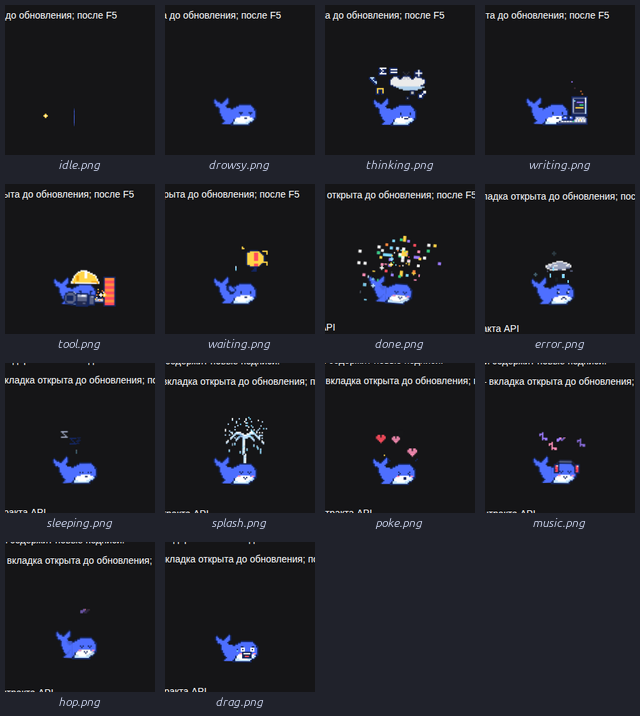
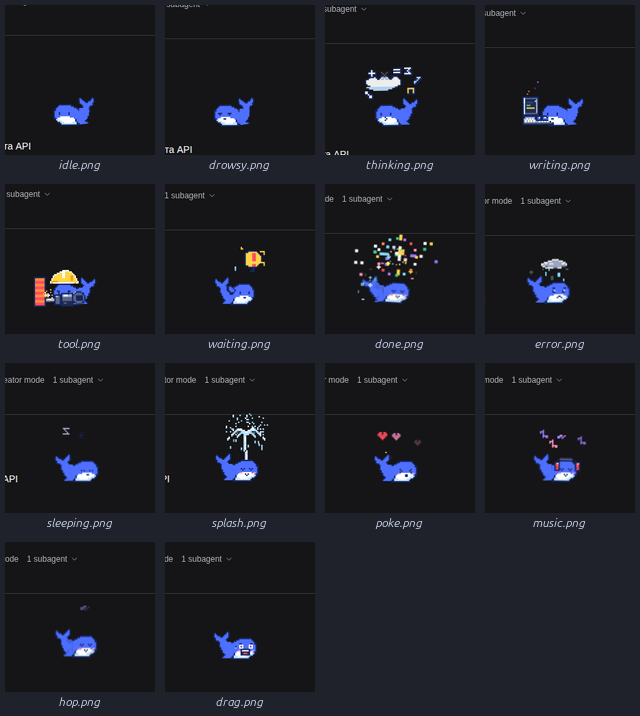
thinking: single-bracket smile, rising thought dots removed

diff --git a/client.js b/client.js
@@ -122,8 +122,6 @@ const ART = {
   83%, 100% { opacity: 0; }
 }
 .dsh-whale.is-thinking #dw-cloud { animation: dw-cloud-float 3.2s ease-in-out infinite; }
-.dsh-whale.is-thinking #dw-dot1 { animation: dw-float 2.4s ease-in-out infinite; }
-.dsh-whale.is-thinking #dw-dot2 { animation: dw-float 2.4s ease-in-out 0.35s infinite; }
 .dsh-whale.is-thinking #dw-formula1 { animation: dw-formula 2.8s ease-in-out 0.00s infinite; }
 .dsh-whale.is-thinking #dw-formula2 { animation: dw-formula 2.8s ease-in-out 0.38s infinite; }
 .dsh-whale.is-thinking #dw-formula3 { animation: dw-formula 2.8s ease-in-out 0.76s infinite; }
@@ -582,7 +580,7 @@ const ART = {
     <g id="dw-face-drowsy" class="dw-alt dw-on-drowsy"><rect x="22" y="68" width="6" height="2" fill="#142660"/><rect x="36" y="68" width="6" height="2" fill="#142660"/><rect x="24" y="70" width="2" height="2" fill="#142660"/><rect x="38" y="70" width="2" height="2" fill="#142660"/></g>
     <g id="dw-face-drag" class="dw-alt dw-on-drag"><rect x="22" y="64" width="4" height="2" fill="#142660"/><rect x="38" y="64" width="4" height="2" fill="#142660"/><rect x="22" y="66" width="6" height="6" fill="#FFFFFF"/><rect x="24" y="68" width="2" height="2" fill="#142660"/><rect x="36" y="66" width="6" height="6" fill="#FFFFFF"/><rect x="38" y="68" width="2" height="2" fill="#142660"/><rect x="46" y="68" width="2" height="4" fill="#7FDBFF"/><rect x="46" y="68" width="2" height="2" fill="#142660"/></g>
     <g id="dw-blush" class="dw-alt dw-on-done dw-on-music dw-on-splash dw-on-poke dw-on-hop dw-on-drag"><rect x="20" y="74" width="4" height="2" fill="#FF8FB8"/><rect x="40" y="74" width="4" height="2" fill="#FF8FB8"/></g>
-    <g id="dw-mouth-smile"><rect x="30" y="76" width="4" height="2" fill="#142660"/></g><g id="dw-mouth-drag-closed" class="dw-alt dw-on-drag"><rect x="28" y="76" width="10" height="2" fill="#142660"/></g><g id="dw-mouth-drag-open" class="dw-alt dw-on-drag"><rect x="26" y="72" width="14" height="10" fill="#142660"/><rect x="28" y="74" width="10" height="6" fill="#222A4E"/><rect x="28" y="74" width="10" height="2" fill="#FFFFFF"/><rect x="30" y="78" width="6" height="2" fill="#FF4D5E"/></g><g id="dw-mouth-think-closed" class="dw-alt dw-on-thinking"><rect x="28" y="76" width="6" height="2" fill="#142660"/><rect x="26" y="74" width="2" height="2" fill="#142660"/><rect x="36" y="74" width="2" height="2" fill="#142660"/></g><g id="dw-mouth-think-open" class="dw-alt dw-on-thinking"><rect x="30" y="74" width="6" height="4" fill="#142660"/><rect x="32" y="76" width="2" height="2" fill="#FF8FB8"/></g>
+    <g id="dw-mouth-smile"><rect x="30" y="76" width="4" height="2" fill="#142660"/></g><g id="dw-mouth-drag-closed" class="dw-alt dw-on-drag"><rect x="28" y="76" width="10" height="2" fill="#142660"/></g><g id="dw-mouth-drag-open" class="dw-alt dw-on-drag"><rect x="26" y="72" width="14" height="10" fill="#142660"/><rect x="28" y="74" width="10" height="6" fill="#222A4E"/><rect x="28" y="74" width="10" height="2" fill="#FFFFFF"/><rect x="30" y="78" width="6" height="2" fill="#FF4D5E"/></g><g id="dw-mouth-think-closed" class="dw-alt dw-on-thinking"><rect x="30" y="74" width="2" height="2" fill="#142660"/><rect x="32" y="76" width="2" height="2" fill="#142660"/><rect x="30" y="78" width="2" height="2" fill="#142660"/></g><g id="dw-mouth-think-open" class="dw-alt dw-on-thinking"><rect x="30" y="74" width="6" height="4" fill="#142660"/><rect x="32" y="76" width="2" height="2" fill="#FF8FB8"/></g>
     <g id="dw-mouth-happy" class="dw-alt dw-on-done dw-on-music dw-on-splash dw-on-hop"><rect x="30" y="76" width="2" height="2" fill="#142660"/><rect x="32" y="78" width="2" height="2" fill="#142660"/><rect x="34" y="76" width="2" height="2" fill="#142660"/></g>
     <g id="dw-mouth-frown" class="dw-alt dw-on-error"><rect x="28" y="78" width="2" height="2" fill="#142660"/><rect x="30" y="76" width="4" height="2" fill="#142660"/><rect x="34" y="78" width="2" height="2" fill="#142660"/></g>
     <g id="dw-mouth-o" class="dw-alt dw-on-poke"><rect x="30" y="76" width="4" height="4" fill="#142660"/></g>
@@ -601,7 +599,7 @@ const ART = {
   </g>
   <g id="dw-props">
     <g id="dw-cloud" class="dw-only dw-on-thinking"><rect x="10" y="14" width="10" height="2" fill="#142660"/><rect x="24" y="14" width="12" height="2" fill="#142660"/><rect x="40" y="14" width="10" height="2" fill="#142660"/><rect x="8" y="16" width="12" height="2" fill="#142660"/><rect x="24" y="16" width="14" height="2" fill="#142660"/><rect x="42" y="16" width="10" height="2" fill="#142660"/><rect x="4" y="18" width="50" height="2" fill="#142660"/><rect x="2" y="20" width="54" height="2" fill="#142660"/><rect x="2" y="22" width="54" height="2" fill="#142660"/><rect x="2" y="24" width="54" height="2" fill="#142660"/><rect x="4" y="26" width="52" height="2" fill="#142660"/><rect x="6" y="28" width="48" height="2" fill="#142660"/><rect x="10" y="30" width="40" height="2" fill="#142660"/><rect x="10" y="16" width="8" height="2" fill="#FFFFFF"/><rect x="26" y="16" width="10" height="2" fill="#FFFFFF"/><rect x="44" y="16" width="6" height="2" fill="#FFFFFF"/><rect x="8" y="18" width="12" height="2" fill="#FFFFFF"/><rect x="24" y="18" width="14" height="2" fill="#FFFFFF"/><rect x="42" y="18" width="10" height="2" fill="#FFFFFF"/><rect x="4" y="20" width="50" height="2" fill="#FFFFFF"/><rect x="4" y="22" width="50" height="2" fill="#FFFFFF"/><rect x="4" y="24" width="50" height="2" fill="#FFFFFF"/><rect x="6" y="26" width="48" height="2" fill="#FFFFFF"/><rect x="10" y="28" width="40" height="2" fill="#FFFFFF"/><rect x="16" y="30" width="28" height="2" fill="#FFFFFF"/><rect x="4" y="30" width="42" height="2" fill="#BEE1FF"/><rect x="8" y="32" width="34" height="2" fill="#BEE1FF"/><rect x="14" y="34" width="22" height="2" fill="#BEE1FF"/></g><g id="dw-formula1" class="dw-only dw-on-thinking"><g transform="translate(8 2)"><rect x="2" y="0" width="2" height="2" fill="#142660"/><rect x="6" y="0" width="2" height="2" fill="#142660"/><rect x="0" y="2" width="4" height="2" fill="#142660"/><rect x="6" y="2" width="6" height="2" fill="#142660"/><rect x="10" y="4" width="2" height="2" fill="#142660"/><rect x="0" y="6" width="4" height="2" fill="#142660"/><rect x="6" y="6" width="6" height="2" fill="#142660"/><rect x="2" y="8" width="2" height="2" fill="#142660"/><rect x="6" y="8" width="2" height="2" fill="#142660"/><rect x="2" y="10" width="6" height="2" fill="#142660"/><rect x="4" y="0" width="2" height="2" fill="#FFFFFF"/><rect x="4" y="2" width="2" height="2" fill="#FFFFFF"/><rect x="0" y="4" width="10" height="2" fill="#FFFFFF"/><rect x="4" y="6" width="2" height="2" fill="#FFFFFF"/><rect x="4" y="8" width="2" height="2" fill="#FFFFFF"/></g></g><g id="dw-formula2" class="dw-only dw-on-thinking"><g transform="translate(26 2)"><rect x="2" y="0" width="6" height="2" fill="#142660"/><rect x="10" y="0" width="2" height="2" fill="#142660"/><rect x="0" y="2" width="2" height="2" fill="#142660"/><rect x="4" y="2" width="2" height="2" fill="#142660"/><rect x="8" y="2" width="4" height="2" fill="#142660"/><rect x="0" y="4" width="4" height="2" fill="#142660"/><rect x="6" y="4" width="4" height="2" fill="#142660"/><rect x="0" y="6" width="2" height="2" fill="#142660"/><rect x="4" y="6" width="2" height="2" fill="#142660"/><rect x="8" y="6" width="4" height="2" fill="#142660"/><rect x="2" y="8" width="6" height="2" fill="#142660"/><rect x="10" y="8" width="2" height="2" fill="#142660"/><rect x="0" y="10" width="4" height="2" fill="#142660"/><rect x="6" y="10" width="6" height="2" fill="#142660"/><rect x="0" y="0" width="2" height="2" fill="#FFFFFF"/><rect x="8" y="0" width="2" height="2" fill="#FFFFFF"/><rect x="2" y="2" width="2" height="2" fill="#FFFFFF"/><rect x="6" y="2" width="2" height="2" fill="#FFFFFF"/><rect x="4" y="4" width="2" height="2" fill="#FFFFFF"/><rect x="2" y="6" width="2" height="2" fill="#FFFFFF"/><rect x="6" y="6" width="2" height="2" fill="#FFFFFF"/><rect x="0" y="8" width="2" height="2" fill="#FFFFFF"/><rect x="8" y="8" width="2" height="2" fill="#FFFFFF"/></g></g><g id="dw-formula3" class="dw-only dw-on-thinking"><g transform="translate(44 2)"><rect x="0" y="0" width="12" height="2" fill="#142660"/><rect x="10" y="2" width="2" height="2" fill="#142660"/><rect x="0" y="4" width="12" height="2" fill="#142660"/><rect x="10" y="6" width="2" height="2" fill="#142660"/><rect x="0" y="8" width="12" height="2" fill="#142660"/><rect x="0" y="2" width="10" height="2" fill="#FFFFFF"/><rect x="0" y="6" width="10" height="2" fill="#FFFFFF"/></g></g><g id="dw-formula4" class="dw-only dw-on-thinking"><g transform="translate(60 2)"><rect x="10" y="0" width="2" height="2" fill="#142660"/><rect x="0" y="2" width="6" height="2" fill="#142660"/><rect x="8" y="2" width="4" height="2" fill="#142660"/><rect x="2" y="4" width="2" height="2" fill="#142660"/><rect x="6" y="4" width="4" height="2" fill="#142660"/><rect x="0" y="6" width="6" height="2" fill="#142660"/><rect x="8" y="6" width="4" height="2" fill="#142660"/><rect x="10" y="8" width="2" height="2" fill="#142660"/><rect x="0" y="10" width="12" height="2" fill="#142660"/><rect x="0" y="0" width="10" height="2" fill="#FFFFFF"/><rect x="6" y="2" width="2" height="2" fill="#FFFFFF"/><rect x="4" y="4" width="2" height="2" fill="#FFFFFF"/><rect x="6" y="6" width="2" height="2" fill="#FFFFFF"/><rect x="0" y="8" width="10" height="2" fill="#FFFFFF"/></g></g><g id="dw-formula5" class="dw-only dw-on-thinking"><g transform="translate(74 16)"><rect x="2" y="0" width="2" height="2" fill="#142660"/><rect x="10" y="0" width="2" height="2" fill="#142660"/><rect x="2" y="2" width="4" height="2" fill="#142660"/><rect x="8" y="2" width="4" height="2" fill="#142660"/><rect x="0" y="4" width="4" height="2" fill="#142660"/><rect x="6" y="4" width="4" height="2" fill="#142660"/><rect x="4" y="6" width="4" height="2" fill="#142660"/><rect x="2" y="8" width="4" height="2" fill="#142660"/><rect x="0" y="10" width="4" height="2" fill="#142660"/><rect x="4" y="0" width="6" height="2" fill="#BEE1FF"/><rect x="6" y="2" width="2" height="2" fill="#BEE1FF"/><rect x="4" y="4" width="2" height="2" fill="#BEE1FF"/><rect x="0" y="6" width="4" height="2" fill="#BEE1FF"/><rect x="0" y="8" width="2" height="2" fill="#BEE1FF"/></g></g><g id="dw-formula6" class="dw-only dw-on-thinking"><g transform="translate(64 32)"><rect x="10" y="0" width="2" height="2" fill="#142660"/><rect x="2" y="2" width="6" height="2" fill="#142660"/><rect x="10" y="2" width="2" height="2" fill="#142660"/><rect x="2" y="4" width="2" height="2" fill="#142660"/><rect x="6" y="4" width="2" height="2" fill="#142660"/><rect x="10" y="4" width="2" height="2" fill="#142660"/><rect x="2" y="6" width="2" height="2" fill="#142660"/><rect x="6" y="6" width="2" height="2" fill="#142660"/><rect x="10" y="6" width="2" height="2" fill="#142660"/><rect x="0" y="8" width="4" height="2" fill="#142660"/><rect x="6" y="8" width="6" height="2" fill="#142660"/><rect x="0" y="0" width="10" height="2" fill="#FFD447"/><rect x="0" y="2" width="2" height="2" fill="#FFD447"/><rect x="8" y="2" width="2" height="2" fill="#FFD447"/><rect x="0" y="4" width="2" height="2" fill="#FFD447"/><rect x="8" y="4" width="2" height="2" fill="#FFD447"/><rect x="0" y="6" width="2" height="2" fill="#FFD447"/><rect x="8" y="6" width="2" height="2" fill="#FFD447"/></g></g><g id="dw-formula7" class="dw-only dw-on-thinking"><g transform="translate(2 36)"><rect x="4" y="0" width="2" height="2" fill="#142660"/><rect x="4" y="2" width="4" height="2" fill="#142660"/><rect x="0" y="4" width="4" height="2" fill="#142660"/><rect x="6" y="4" width="6" height="2" fill="#142660"/><rect x="2" y="6" width="4" height="2" fill="#142660"/><rect x="10" y="6" width="2" height="2" fill="#142660"/><rect x="4" y="8" width="2" height="2" fill="#142660"/><rect x="10" y="8" width="2" height="2" fill="#142660"/><rect x="4" y="10" width="8" height="2" fill="#142660"/><rect x="0" y="0" width="4" height="2" fill="#FFFFFF"/><rect x="0" y="2" width="4" height="2" fill="#FFFFFF"/><rect x="4" y="4" width="2" height="2" fill="#FFFFFF"/><rect x="6" y="6" width="4" height="2" fill="#FFFFFF"/><rect x="6" y="8" width="4" height="2" fill="#FFFFFF"/></g></g>
-    <g id="dw-dot1" class="dw-only dw-on-thinking"><g transform="translate(0 8)"><circle cx="22" cy="32" r="0"/><path d="M18 28h8v2h-8zM18 30h2v6h-2zM24 30h2v6h-2zM20 34h4v2h-4z" fill="#142660"/><path d="M20 30h4v4h-4z" fill="#FFFFFF"/></g></g><g id="dw-dot2" class="dw-only dw-on-thinking"><g transform="translate(0 8)"><path d="M26 36h6v2h-6zM26 38h2v4h-2zM30 38h2v4h-2zM28 40h2v2h-2z" fill="#142660"/><path d="M28 38h2v2h-2z" fill="#FFFFFF"/></g></g>
+    
     <g id="dw-bubble" class="dw-only dw-on-waiting"><path d="M14 12h12v2h-12zM10 14h2v2h-2zM26 14h4v2h-4zM8 16h2v2h-2zM30 16h2v18h-2zM6 18h2v2h-2zM4 20h2v10h-2zM6 30h2v2h-2zM8 32h2v2h-2zM10 34h2v2h-2zM26 34h4v2h-4zM14 36h12v2h-12zM16 38h4v6h-4zM20 40h2v4h-2zM22 42h2v2h-2z" fill="#142660"/><path d="M12 14h14v22h-14zM10 16h2v18h-2zM26 16h4v18h-4zM8 18h2v14h-2zM6 20h2v10h-2z" fill="#FFD447"/><rect x="14" y="16" width="6" height="12" fill="#FF4D5E"/><rect x="14" y="32" width="6" height="4" fill="#FF4D5E"/></g>
     <g id="dw-tick1" class="dw-only dw-on-waiting"><rect x="0" y="8" width="2" height="6" fill="#FFD447"/><rect x="0" y="8" width="8" height="2" fill="#FFD447"/></g><g id="dw-tick2" class="dw-only dw-on-waiting"><rect x="0" y="24" width="2" height="6" fill="#FFD447"/><rect x="0" y="24" width="8" height="2" fill="#FFD447"/></g><g id="dw-tick3" class="dw-only dw-on-waiting"><rect x="34" y="4" width="4" height="2" fill="#FFD447"/><rect x="36" y="2" width="2" height="2" fill="#FFD447"/></g>
     <g id="dw-laptop" class="dw-only dw-on-writing"><rect x="0" y="44" width="24" height="30" fill="#142660"/><rect x="2" y="46" width="20" height="24" fill="#A7B0CC"/><rect x="2" y="46" width="20" height="2" fill="#5B6488"/><rect x="2" y="68" width="20" height="2" fill="#5B6488"/><rect x="2" y="46" width="2" height="24" fill="#BEE1FF"/><rect x="2" y="46" width="2" height="8" fill="#FFFFFF"/><rect x="4" y="48" width="16" height="20" fill="#222A4E"/><rect x="4" y="48" width="16" height="2" fill="#142660"/><rect x="18" y="50" width="2" height="2" fill="#7FDBFF"/><g id="dw-code-a" class="dw-only dw-on-writing"><rect x="6" y="52" width="10" height="2" fill="#9D7BFF"/></g><g id="dw-code-b" class="dw-only dw-on-writing"><rect x="6" y="56" width="6" height="2" fill="#35D07F"/></g><g id="dw-code-c" class="dw-only dw-on-writing"><rect x="6" y="60" width="12" height="2" fill="#FFD447"/></g><g id="dw-cursor" class="dw-only dw-on-writing"><rect x="6" y="64" width="4" height="2" fill="#FFFFFF"/></g><rect x="2" y="72" width="28" height="2" fill="#142660"/><rect x="2" y="74" width="30" height="2" fill="#142660"/><rect x="0" y="76" width="34" height="2" fill="#142660"/><rect x="0" y="78" width="38" height="2" fill="#142660"/><rect x="0" y="80" width="42" height="2" fill="#142660"/><rect x="0" y="82" width="46" height="2" fill="#142660"/><rect x="0" y="84" width="46" height="2" fill="#142660"/><rect x="4" y="74" width="26" height="2" fill="#A7B0CC"/><rect x="2" y="76" width="30" height="2" fill="#A7B0CC"/><rect x="2" y="78" width="34" height="2" fill="#A7B0CC"/><rect x="2" y="80" width="38" height="2" fill="#A7B0CC"/><rect x="2" y="82" width="42" height="2" fill="#5B6488"/><rect x="6" y="76" width="2" height="2" fill="#FFFFFF"/><rect x="10" y="76" width="2" height="2" fill="#FFFFFF"/><rect x="14" y="76" width="2" height="2" fill="#FFFFFF"/><rect x="18" y="76" width="2" height="2" fill="#FFFFFF"/><rect x="22" y="76" width="2" height="2" fill="#FFFFFF"/><rect x="26" y="76" width="2" height="2" fill="#FFFFFF"/><rect x="4" y="78" width="2" height="2" fill="#FFFFFF"/><rect x="8" y="78" width="2" height="2" fill="#FFFFFF"/><rect x="12" y="78" width="2" height="2" fill="#FFFFFF"/><rect x="16" y="78" width="2" height="2" fill="#FFFFFF"/><rect x="20" y="78" width="2" height="2" fill="#FFFFFF"/><rect x="24" y="78" width="2" height="2" fill="#FFFFFF"/><rect x="28" y="78" width="2" height="2" fill="#FFFFFF"/><rect x="32" y="78" width="2" height="2" fill="#FFFFFF"/><rect x="4" y="80" width="2" height="2" fill="#FFFFFF"/><rect x="8" y="80" width="2" height="2" fill="#FFFFFF"/><rect x="12" y="80" width="2" height="2" fill="#FFFFFF"/><rect x="16" y="80" width="2" height="2" fill="#FFFFFF"/><rect x="20" y="80" width="2" height="2" fill="#FFFFFF"/><rect x="24" y="80" width="2" height="2" fill="#FFFFFF"/><rect x="28" y="80" width="2" height="2" fill="#FFFFFF"/><rect x="32" y="80" width="2" height="2" fill="#FFFFFF"/><rect x="36" y="80" width="2" height="2" fill="#FFFFFF"/><rect x="10" y="78" width="2" height="2" fill="#FFD447"/><rect x="26" y="76" width="2" height="2" fill="#9D7BFF"/><rect x="20" y="80" width="2" height="2" fill="#35D07F"/><g id="dw-fin-l"><path d="M20 72h8v2h2v4h-2v2h-8v-2h-2v-4h2z" fill="#142660"/><path d="M22 74h6v2h2v2h-8v-4z" fill="#4E6FFF"/><rect x="24" y="74" width="2" height="2" fill="#FFFFFF"/></g><g id="dw-fin-r"><path d="M28 74h8v2h2v4h-2v2h-8v-2h-2v-4h2z" fill="#142660"/><path d="M30 76h6v2h2v2h-8v-4z" fill="#4E6FFF"/><rect x="32" y="76" width="2" height="2" fill="#FFFFFF"/></g></g>

diff --git a/src/art.js b/src/art.js
@@ -112,8 +112,6 @@ const ART = {
   83%, 100% { opacity: 0; }
 }
 .dsh-whale.is-thinking #dw-cloud { animation: dw-cloud-float 3.2s ease-in-out infinite; }
-.dsh-whale.is-thinking #dw-dot1 { animation: dw-float 2.4s ease-in-out infinite; }
-.dsh-whale.is-thinking #dw-dot2 { animation: dw-float 2.4s ease-in-out 0.35s infinite; }
 .dsh-whale.is-thinking #dw-formula1 { animation: dw-formula 2.8s ease-in-out 0.00s infinite; }
 .dsh-whale.is-thinking #dw-formula2 { animation: dw-formula 2.8s ease-in-out 0.38s infinite; }
 .dsh-whale.is-thinking #dw-formula3 { animation: dw-formula 2.8s ease-in-out 0.76s infinite; }
@@ -572,7 +570,7 @@ const ART = {
     <g id="dw-face-drowsy" class="dw-alt dw-on-drowsy"><rect x="22" y="68" width="6" height="2" fill="#142660"/><rect x="36" y="68" width="6" height="2" fill="#142660"/><rect x="24" y="70" width="2" height="2" fill="#142660"/><rect x="38" y="70" width="2" height="2" fill="#142660"/></g>
     <g id="dw-face-drag" class="dw-alt dw-on-drag"><rect x="22" y="64" width="4" height="2" fill="#142660"/><rect x="38" y="64" width="4" height="2" fill="#142660"/><rect x="22" y="66" width="6" height="6" fill="#FFFFFF"/><rect x="24" y="68" width="2" height="2" fill="#142660"/><rect x="36" y="66" width="6" height="6" fill="#FFFFFF"/><rect x="38" y="68" width="2" height="2" fill="#142660"/><rect x="46" y="68" width="2" height="4" fill="#7FDBFF"/><rect x="46" y="68" width="2" height="2" fill="#142660"/></g>
     <g id="dw-blush" class="dw-alt dw-on-done dw-on-music dw-on-splash dw-on-poke dw-on-hop dw-on-drag"><rect x="20" y="74" width="4" height="2" fill="#FF8FB8"/><rect x="40" y="74" width="4" height="2" fill="#FF8FB8"/></g>
-    <g id="dw-mouth-smile"><rect x="30" y="76" width="4" height="2" fill="#142660"/></g><g id="dw-mouth-drag-closed" class="dw-alt dw-on-drag"><rect x="28" y="76" width="10" height="2" fill="#142660"/></g><g id="dw-mouth-drag-open" class="dw-alt dw-on-drag"><rect x="26" y="72" width="14" height="10" fill="#142660"/><rect x="28" y="74" width="10" height="6" fill="#222A4E"/><rect x="28" y="74" width="10" height="2" fill="#FFFFFF"/><rect x="30" y="78" width="6" height="2" fill="#FF4D5E"/></g><g id="dw-mouth-think-closed" class="dw-alt dw-on-thinking"><rect x="28" y="76" width="6" height="2" fill="#142660"/><rect x="26" y="74" width="2" height="2" fill="#142660"/><rect x="36" y="74" width="2" height="2" fill="#142660"/></g><g id="dw-mouth-think-open" class="dw-alt dw-on-thinking"><rect x="30" y="74" width="6" height="4" fill="#142660"/><rect x="32" y="76" width="2" height="2" fill="#FF8FB8"/></g>
+    <g id="dw-mouth-smile"><rect x="30" y="76" width="4" height="2" fill="#142660"/></g><g id="dw-mouth-drag-closed" class="dw-alt dw-on-drag"><rect x="28" y="76" width="10" height="2" fill="#142660"/></g><g id="dw-mouth-drag-open" class="dw-alt dw-on-drag"><rect x="26" y="72" width="14" height="10" fill="#142660"/><rect x="28" y="74" width="10" height="6" fill="#222A4E"/><rect x="28" y="74" width="10" height="2" fill="#FFFFFF"/><rect x="30" y="78" width="6" height="2" fill="#FF4D5E"/></g><g id="dw-mouth-think-closed" class="dw-alt dw-on-thinking"><rect x="30" y="74" width="2" height="2" fill="#142660"/><rect x="32" y="76" width="2" height="2" fill="#142660"/><rect x="30" y="78" width="2" height="2" fill="#142660"/></g><g id="dw-mouth-think-open" class="dw-alt dw-on-thinking"><rect x="30" y="74" width="6" height="4" fill="#142660"/><rect x="32" y="76" width="2" height="2" fill="#FF8FB8"/></g>
     <g id="dw-mouth-happy" class="dw-alt dw-on-done dw-on-music dw-on-splash dw-on-hop"><rect x="30" y="76" width="2" height="2" fill="#142660"/><rect x="32" y="78" width="2" height="2" fill="#142660"/><rect x="34" y="76" width="2" height="2" fill="#142660"/></g>
     <g id="dw-mouth-frown" class="dw-alt dw-on-error"><rect x="28" y="78" width="2" height="2" fill="#142660"/><rect x="30" y="76" width="4" height="2" fill="#142660"/><rect x="34" y="78" width="2" height="2" fill="#142660"/></g>
     <g id="dw-mouth-o" class="dw-alt dw-on-poke"><rect x="30" y="76" width="4" height="4" fill="#142660"/></g>
@@ -591,7 +589,7 @@ const ART = {
   </g>
   <g id="dw-props">
     <g id="dw-cloud" class="dw-only dw-on-thinking"><rect x="10" y="14" width="10" height="2" fill="#142660"/><rect x="24" y="14" width="12" height="2" fill="#142660"/><rect x="40" y="14" width="10" height="2" fill="#142660"/><rect x="8" y="16" width="12" height="2" fill="#142660"/><rect x="24" y="16" width="14" height="2" fill="#142660"/><rect x="42" y="16" width="10" height="2" fill="#142660"/><rect x="4" y="18" width="50" height="2" fill="#142660"/><rect x="2" y="20" width="54" height="2" fill="#142660"/><rect x="2" y="22" width="54" height="2" fill="#142660"/><rect x="2" y="24" width="54" height="2" fill="#142660"/><rect x="4" y="26" width="52" height="2" fill="#142660"/><rect x="6" y="28" width="48" height="2" fill="#142660"/><rect x="10" y="30" width="40" height="2" fill="#142660"/><rect x="10" y="16" width="8" height="2" fill="#FFFFFF"/><rect x="26" y="16" width="10" height="2" fill="#FFFFFF"/><rect x="44" y="16" width="6" height="2" fill="#FFFFFF"/><rect x="8" y="18" width="12" height="2" fill="#FFFFFF"/><rect x="24" y="18" width="14" height="2" fill="#FFFFFF"/><rect x="42" y="18" width="10" height="2" fill="#FFFFFF"/><rect x="4" y="20" width="50" height="2" fill="#FFFFFF"/><rect x="4" y="22" width="50" height="2" fill="#FFFFFF"/><rect x="4" y="24" width="50" height="2" fill="#FFFFFF"/><rect x="6" y="26" width="48" height="2" fill="#FFFFFF"/><rect x="10" y="28" width="40" height="2" fill="#FFFFFF"/><rect x="16" y="30" width="28" height="2" fill="#FFFFFF"/><rect x="4" y="30" width="42" height="2" fill="#BEE1FF"/><rect x="8" y="32" width="34" height="2" fill="#BEE1FF"/><rect x="14" y="34" width="22" height="2" fill="#BEE1FF"/></g><g id="dw-formula1" class="dw-only dw-on-thinking"><g transform="translate(8 2)"><rect x="2" y="0" width="2" height="2" fill="#142660"/><rect x="6" y="0" width="2" height="2" fill="#142660"/><rect x="0" y="2" width="4" height="2" fill="#142660"/><rect x="6" y="2" width="6" height="2" fill="#142660"/><rect x="10" y="4" width="2" height="2" fill="#142660"/><rect x="0" y="6" width="4" height="2" fill="#142660"/><rect x="6" y="6" width="6" height="2" fill="#142660"/><rect x="2" y="8" width="2" height="2" fill="#142660"/><rect x="6" y="8" width="2" height="2" fill="#142660"/><rect x="2" y="10" width="6" height="2" fill="#142660"/><rect x="4" y="0" width="2" height="2" fill="#FFFFFF"/><rect x="4" y="2" width="2" height="2" fill="#FFFFFF"/><rect x="0" y="4" width="10" height="2" fill="#FFFFFF"/><rect x="4" y="6" width="2" height="2" fill="#FFFFFF"/><rect x="4" y="8" width="2" height="2" fill="#FFFFFF"/></g></g><g id="dw-formula2" class="dw-only dw-on-thinking"><g transform="translate(26 2)"><rect x="2" y="0" width="6" height="2" fill="#142660"/><rect x="10" y="0" width="2" height="2" fill="#142660"/><rect x="0" y="2" width="2" height="2" fill="#142660"/><rect x="4" y="2" width="2" height="2" fill="#142660"/><rect x="8" y="2" width="4" height="2" fill="#142660"/><rect x="0" y="4" width="4" height="2" fill="#142660"/><rect x="6" y="4" width="4" height="2" fill="#142660"/><rect x="0" y="6" width="2" height="2" fill="#142660"/><rect x="4" y="6" width="2" height="2" fill="#142660"/><rect x="8" y="6" width="4" height="2" fill="#142660"/><rect x="2" y="8" width="6" height="2" fill="#142660"/><rect x="10" y="8" width="2" height="2" fill="#142660"/><rect x="0" y="10" width="4" height="2" fill="#142660"/><rect x="6" y="10" width="6" height="2" fill="#142660"/><rect x="0" y="0" width="2" height="2" fill="#FFFFFF"/><rect x="8" y="0" width="2" height="2" fill="#FFFFFF"/><rect x="2" y="2" width="2" height="2" fill="#FFFFFF"/><rect x="6" y="2" width="2" height="2" fill="#FFFFFF"/><rect x="4" y="4" width="2" height="2" fill="#FFFFFF"/><rect x="2" y="6" width="2" height="2" fill="#FFFFFF"/><rect x="6" y="6" width="2" height="2" fill="#FFFFFF"/><rect x="0" y="8" width="2" height="2" fill="#FFFFFF"/><rect x="8" y="8" width="2" height="2" fill="#FFFFFF"/></g></g><g id="dw-formula3" class="dw-only dw-on-thinking"><g transform="translate(44 2)"><rect x="0" y="0" width="12" height="2" fill="#142660"/><rect x="10" y="2" width="2" height="2" fill="#142660"/><rect x="0" y="4" width="12" height="2" fill="#142660"/><rect x="10" y="6" width="2" height="2" fill="#142660"/><rect x="0" y="8" width="12" height="2" fill="#142660"/><rect x="0" y="2" width="10" height="2" fill="#FFFFFF"/><rect x="0" y="6" width="10" height="2" fill="#FFFFFF"/></g></g><g id="dw-formula4" class="dw-only dw-on-thinking"><g transform="translate(60 2)"><rect x="10" y="0" width="2" height="2" fill="#142660"/><rect x="0" y="2" width="6" height="2" fill="#142660"/><rect x="8" y="2" width="4" height="2" fill="#142660"/><rect x="2" y="4" width="2" height="2" fill="#142660"/><rect x="6" y="4" width="4" height="2" fill="#142660"/><rect x="0" y="6" width="6" height="2" fill="#142660"/><rect x="8" y="6" width="4" height="2" fill="#142660"/><rect x="10" y="8" width="2" height="2" fill="#142660"/><rect x="0" y="10" width="12" height="2" fill="#142660"/><rect x="0" y="0" width="10" height="2" fill="#FFFFFF"/><rect x="6" y="2" width="2" height="2" fill="#FFFFFF"/><rect x="4" y="4" width="2" height="2" fill="#FFFFFF"/><rect x="6" y="6" width="2" height="2" fill="#FFFFFF"/><rect x="0" y="8" width="10" height="2" fill="#FFFFFF"/></g></g><g id="dw-formula5" class="dw-only dw-on-thinking"><g transform="translate(74 16)"><rect x="2" y="0" width="2" height="2" fill="#142660"/><rect x="10" y="0" width="2" height="2" fill="#142660"/><rect x="2" y="2" width="4" height="2" fill="#142660"/><rect x="8" y="2" width="4" height="2" fill="#142660"/><rect x="0" y="4" width="4" height="2" fill="#142660"/><rect x="6" y="4" width="4" height="2" fill="#142660"/><rect x="4" y="6" width="4" height="2" fill="#142660"/><rect x="2" y="8" width="4" height="2" fill="#142660"/><rect x="0" y="10" width="4" height="2" fill="#142660"/><rect x="4" y="0" width="6" height="2" fill="#BEE1FF"/><rect x="6" y="2" width="2" height="2" fill="#BEE1FF"/><rect x="4" y="4" width="2" height="2" fill="#BEE1FF"/><rect x="0" y="6" width="4" height="2" fill="#BEE1FF"/><rect x="0" y="8" width="2" height="2" fill="#BEE1FF"/></g></g><g id="dw-formula6" class="dw-only dw-on-thinking"><g transform="translate(64 32)"><rect x="10" y="0" width="2" height="2" fill="#142660"/><rect x="2" y="2" width="6" height="2" fill="#142660"/><rect x="10" y="2" width="2" height="2" fill="#142660"/><rect x="2" y="4" width="2" height="2" fill="#142660"/><rect x="6" y="4" width="2" height="2" fill="#142660"/><rect x="10" y="4" width="2" height="2" fill="#142660"/><rect x="2" y="6" width="2" height="2" fill="#142660"/><rect x="6" y="6" width="2" height="2" fill="#142660"/><rect x="10" y="6" width="2" height="2" fill="#142660"/><rect x="0" y="8" width="4" height="2" fill="#142660"/><rect x="6" y="8" width="6" height="2" fill="#142660"/><rect x="0" y="0" width="10" height="2" fill="#FFD447"/><rect x="0" y="2" width="2" height="2" fill="#FFD447"/><rect x="8" y="2" width="2" height="2" fill="#FFD447"/><rect x="0" y="4" width="2" height="2" fill="#FFD447"/><rect x="8" y="4" width="2" height="2" fill="#FFD447"/><rect x="0" y="6" width="2" height="2" fill="#FFD447"/><rect x="8" y="6" width="2" height="2" fill="#FFD447"/></g></g><g id="dw-formula7" class="dw-only dw-on-thinking"><g transform="translate(2 36)"><rect x="4" y="0" width="2" height="2" fill="#142660"/><rect x="4" y="2" width="4" height="2" fill="#142660"/><rect x="0" y="4" width="4" height="2" fill="#142660"/><rect x="6" y="4" width="6" height="2" fill="#142660"/><rect x="2" y="6" width="4" height="2" fill="#142660"/><rect x="10" y="6" width="2" height="2" fill="#142660"/><rect x="4" y="8" width="2" height="2" fill="#142660"/><rect x="10" y="8" width="2" height="2" fill="#142660"/><rect x="4" y="10" width="8" height="2" fill="#142660"/><rect x="0" y="0" width="4" height="2" fill="#FFFFFF"/><rect x="0" y="2" width="4" height="2" fill="#FFFFFF"/><rect x="4" y="4" width="2" height="2" fill="#FFFFFF"/><rect x="6" y="6" width="4" height="2" fill="#FFFFFF"/><rect x="6" y="8" width="4" height="2" fill="#FFFFFF"/></g></g>
-    <g id="dw-dot1" class="dw-only dw-on-thinking"><g transform="translate(0 8)"><circle cx="22" cy="32" r="0"/><path d="M18 28h8v2h-8zM18 30h2v6h-2zM24 30h2v6h-2zM20 34h4v2h-4z" fill="#142660"/><path d="M20 30h4v4h-4z" fill="#FFFFFF"/></g></g><g id="dw-dot2" class="dw-only dw-on-thinking"><g transform="translate(0 8)"><path d="M26 36h6v2h-6zM26 38h2v4h-2zM30 38h2v4h-2zM28 40h2v2h-2z" fill="#142660"/><path d="M28 38h2v2h-2z" fill="#FFFFFF"/></g></g>
+    
     <g id="dw-bubble" class="dw-only dw-on-waiting"><path d="M14 12h12v2h-12zM10 14h2v2h-2zM26 14h4v2h-4zM8 16h2v2h-2zM30 16h2v18h-2zM6 18h2v2h-2zM4 20h2v10h-2zM6 30h2v2h-2zM8 32h2v2h-2zM10 34h2v2h-2zM26 34h4v2h-4zM14 36h12v2h-12zM16 38h4v6h-4zM20 40h2v4h-2zM22 42h2v2h-2z" fill="#142660"/><path d="M12 14h14v22h-14zM10 16h2v18h-2zM26 16h4v18h-4zM8 18h2v14h-2zM6 20h2v10h-2z" fill="#FFD447"/><rect x="14" y="16" width="6" height="12" fill="#FF4D5E"/><rect x="14" y="32" width="6" height="4" fill="#FF4D5E"/></g>
     <g id="dw-tick1" class="dw-only dw-on-waiting"><rect x="0" y="8" width="2" height="6" fill="#FFD447"/><rect x="0" y="8" width="8" height="2" fill="#FFD447"/></g><g id="dw-tick2" class="dw-only dw-on-waiting"><rect x="0" y="24" width="2" height="6" fill="#FFD447"/><rect x="0" y="24" width="8" height="2" fill="#FFD447"/></g><g id="dw-tick3" class="dw-only dw-on-waiting"><rect x="34" y="4" width="4" height="2" fill="#FFD447"/><rect x="36" y="2" width="2" height="2" fill="#FFD447"/></g>
     <g id="dw-laptop" class="dw-only dw-on-writing"><rect x="0" y="44" width="24" height="30" fill="#142660"/><rect x="2" y="46" width="20" height="24" fill="#A7B0CC"/><rect x="2" y="46" width="20" height="2" fill="#5B6488"/><rect x="2" y="68" width="20" height="2" fill="#5B6488"/><rect x="2" y="46" width="2" height="24" fill="#BEE1FF"/><rect x="2" y="46" width="2" height="8" fill="#FFFFFF"/><rect x="4" y="48" width="16" height="20" fill="#222A4E"/><rect x="4" y="48" width="16" height="2" fill="#142660"/><rect x="18" y="50" width="2" height="2" fill="#7FDBFF"/><g id="dw-code-a" class="dw-only dw-on-writing"><rect x="6" y="52" width="10" height="2" fill="#9D7BFF"/></g><g id="dw-code-b" class="dw-only dw-on-writing"><rect x="6" y="56" width="6" height="2" fill="#35D07F"/></g><g id="dw-code-c" class="dw-only dw-on-writing"><rect x="6" y="60" width="12" height="2" fill="#FFD447"/></g><g id="dw-cursor" class="dw-only dw-on-writing"><rect x="6" y="64" width="4" height="2" fill="#FFFFFF"/></g><rect x="2" y="72" width="28" height="2" fill="#142660"/><rect x="2" y="74" width="30" height="2" fill="#142660"/><rect x="0" y="76" width="34" height="2" fill="#142660"/><rect x="0" y="78" width="38" height="2" fill="#142660"/><rect x="0" y="80" width="42" height="2" fill="#142660"/><rect x="0" y="82" width="46" height="2" fill="#142660"/><rect x="0" y="84" width="46" height="2" fill="#142660"/><rect x="4" y="74" width="26" height="2" fill="#A7B0CC"/><rect x="2" y="76" width="30" height="2" fill="#A7B0CC"/><rect x="2" y="78" width="34" height="2" fill="#A7B0CC"/><rect x="2" y="80" width="38" height="2" fill="#A7B0CC"/><rect x="2" y="82" width="42" height="2" fill="#5B6488"/><rect x="6" y="76" width="2" height="2" fill="#FFFFFF"/><rect x="10" y="76" width="2" height="2" fill="#FFFFFF"/><rect x="14" y="76" width="2" height="2" fill="#FFFFFF"/><rect x="18" y="76" width="2" height="2" fill="#FFFFFF"/><rect x="22" y="76" width="2" height="2" fill="#FFFFFF"/><rect x="26" y="76" width="2" height="2" fill="#FFFFFF"/><rect x="4" y="78" width="2" height="2" fill="#FFFFFF"/><rect x="8" y="78" width="2" height="2" fill="#FFFFFF"/><rect x="12" y="78" width="2" height="2" fill="#FFFFFF"/><rect x="16" y="78" width="2" height="2" fill="#FFFFFF"/><rect x="20" y="78" width="2" height="2" fill="#FFFFFF"/><rect x="24" y="78" width="2" height="2" fill="#FFFFFF"/><rect x="28" y="78" width="2" height="2" fill="#FFFFFF"/><rect x="32" y="78" width="2" height="2" fill="#FFFFFF"/><rect x="4" y="80" width="2" height="2" fill="#FFFFFF"/><rect x="8" y="80" width="2" height="2" fill="#FFFFFF"/><rect x="12" y="80" width="2" height="2" fill="#FFFFFF"/><rect x="16" y="80" width="2" height="2" fill="#FFFFFF"/><rect x="20" y="80" width="2" height="2" fill="#FFFFFF"/><rect x="24" y="80" width="2" height="2" fill="#FFFFFF"/><rect x="28" y="80" width="2" height="2" fill="#FFFFFF"/><rect x="32" y="80" width="2" height="2" fill="#FFFFFF"/><rect x="36" y="80" width="2" height="2" fill="#FFFFFF"/><rect x="10" y="78" width="2" height="2" fill="#FFD447"/><rect x="26" y="76" width="2" height="2" fill="#9D7BFF"/><rect x="20" y="80" width="2" height="2" fill="#35D07F"/><g id="dw-fin-l"><path d="M20 72h8v2h2v4h-2v2h-8v-2h-2v-4h2z" fill="#142660"/><path d="M22 74h6v2h2v2h-8v-4z" fill="#4E6FFF"/><rect x="24" y="74" width="2" height="2" fill="#FFFFFF"/></g><g id="dw-fin-r"><path d="M28 74h8v2h2v4h-2v2h-8v-2h-2v-4h2z" fill="#142660"/><path d="M30 76h6v2h2v2h-8v-4z" fill="#4E6FFF"/><rect x="32" y="76" width="2" height="2" fill="#FFFFFF"/></g></g>
